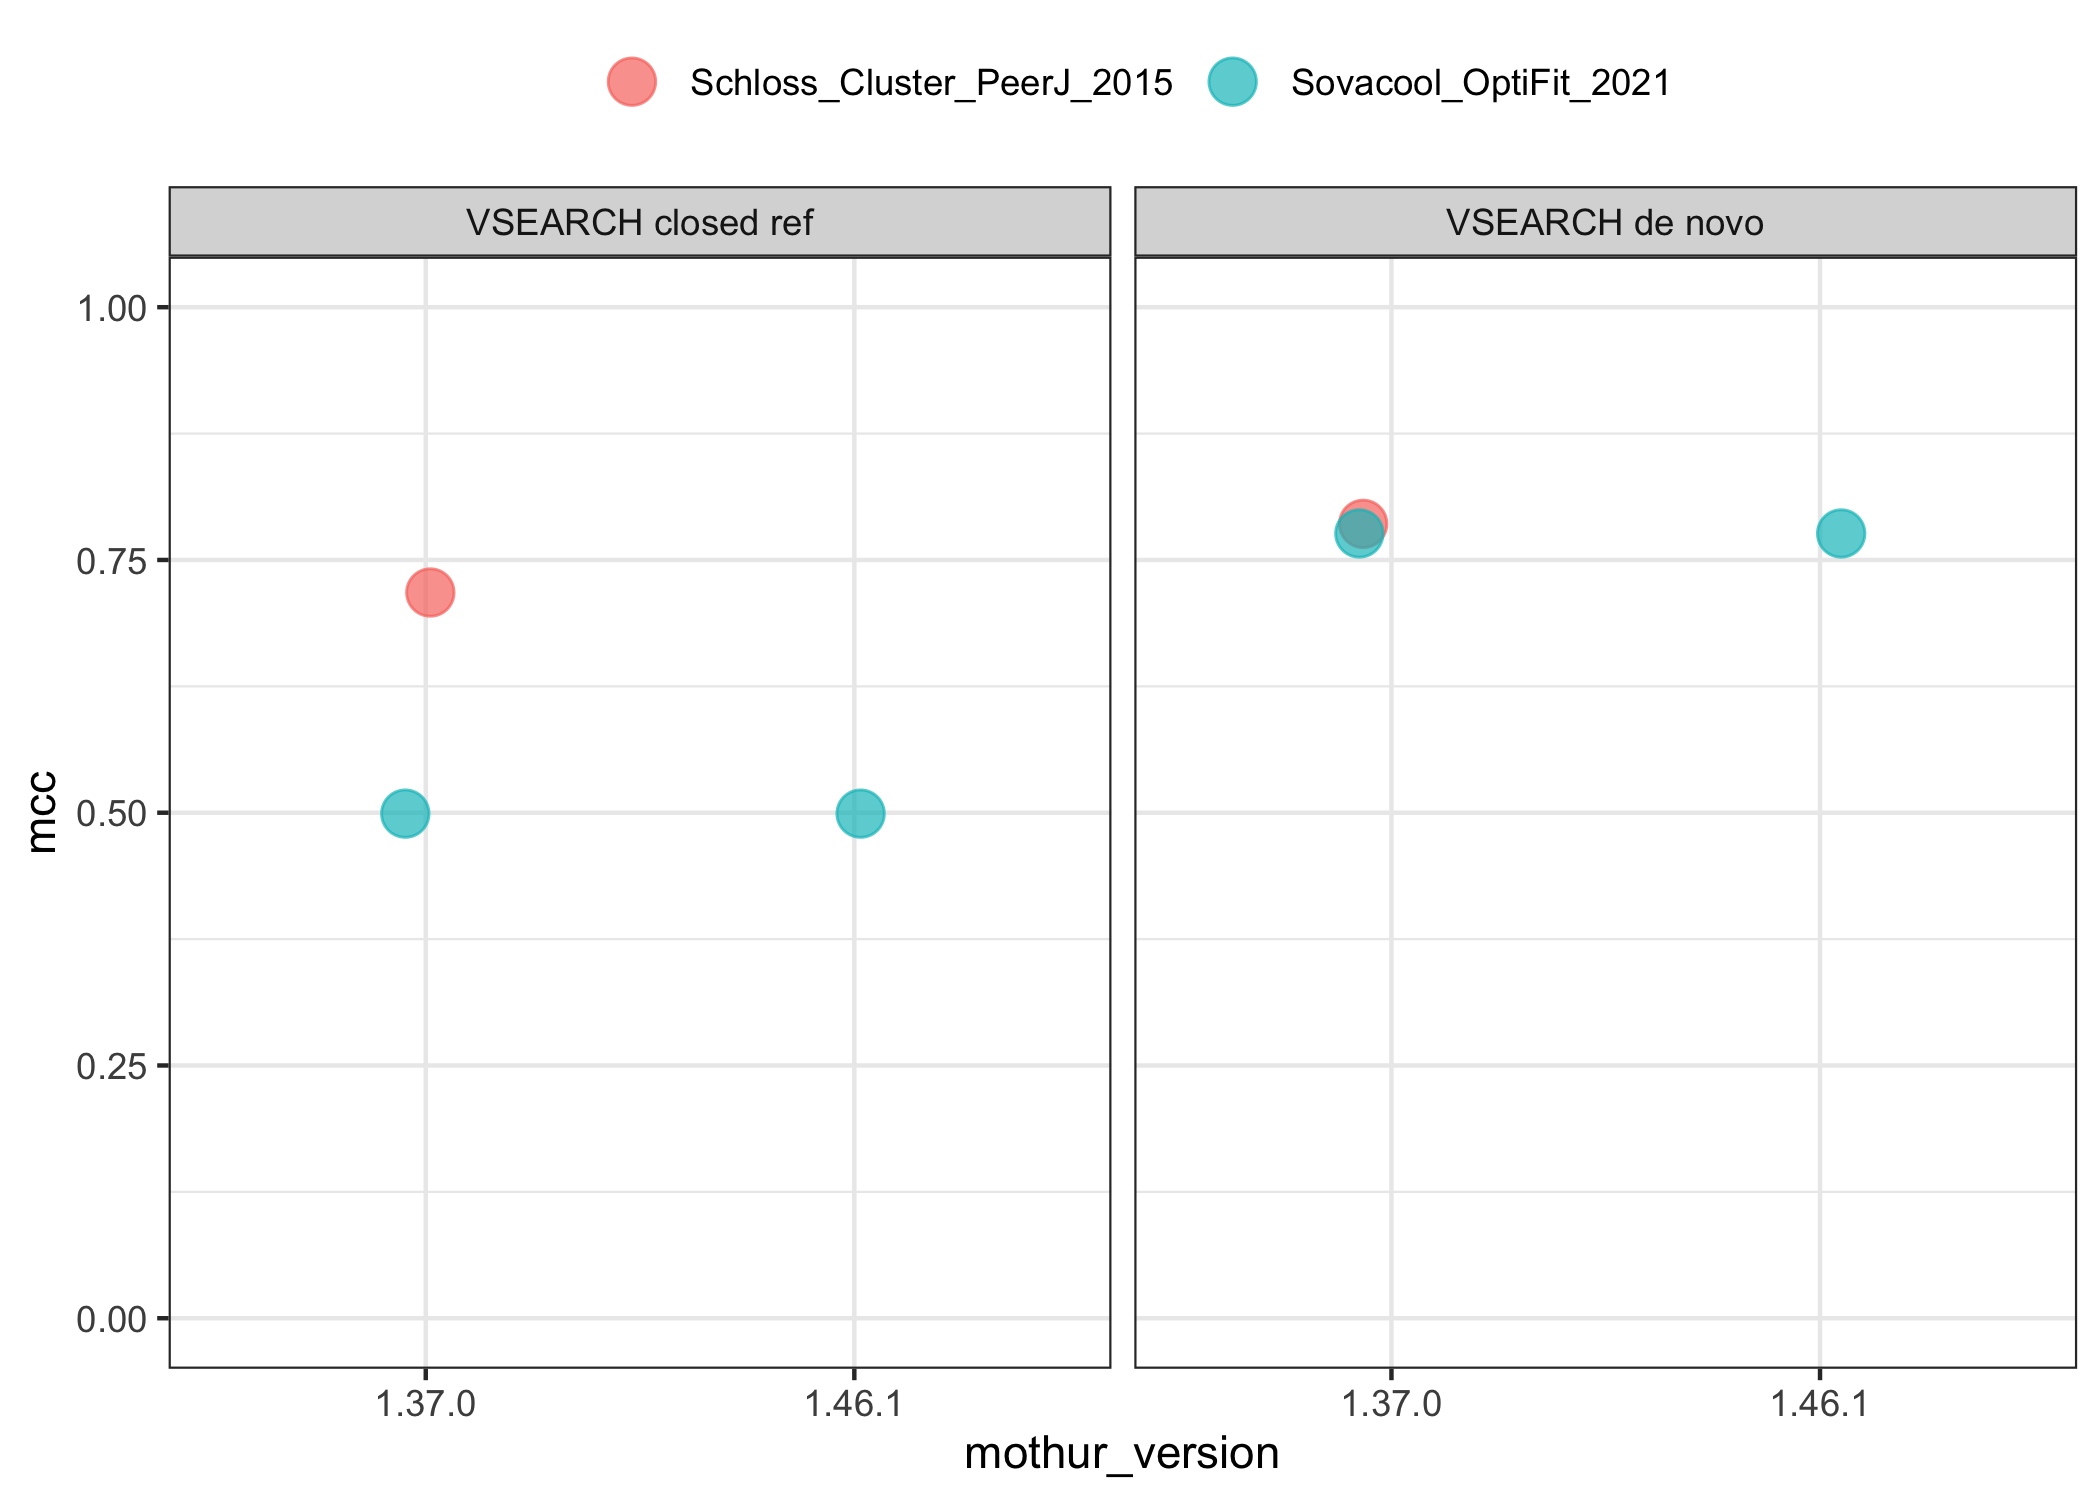
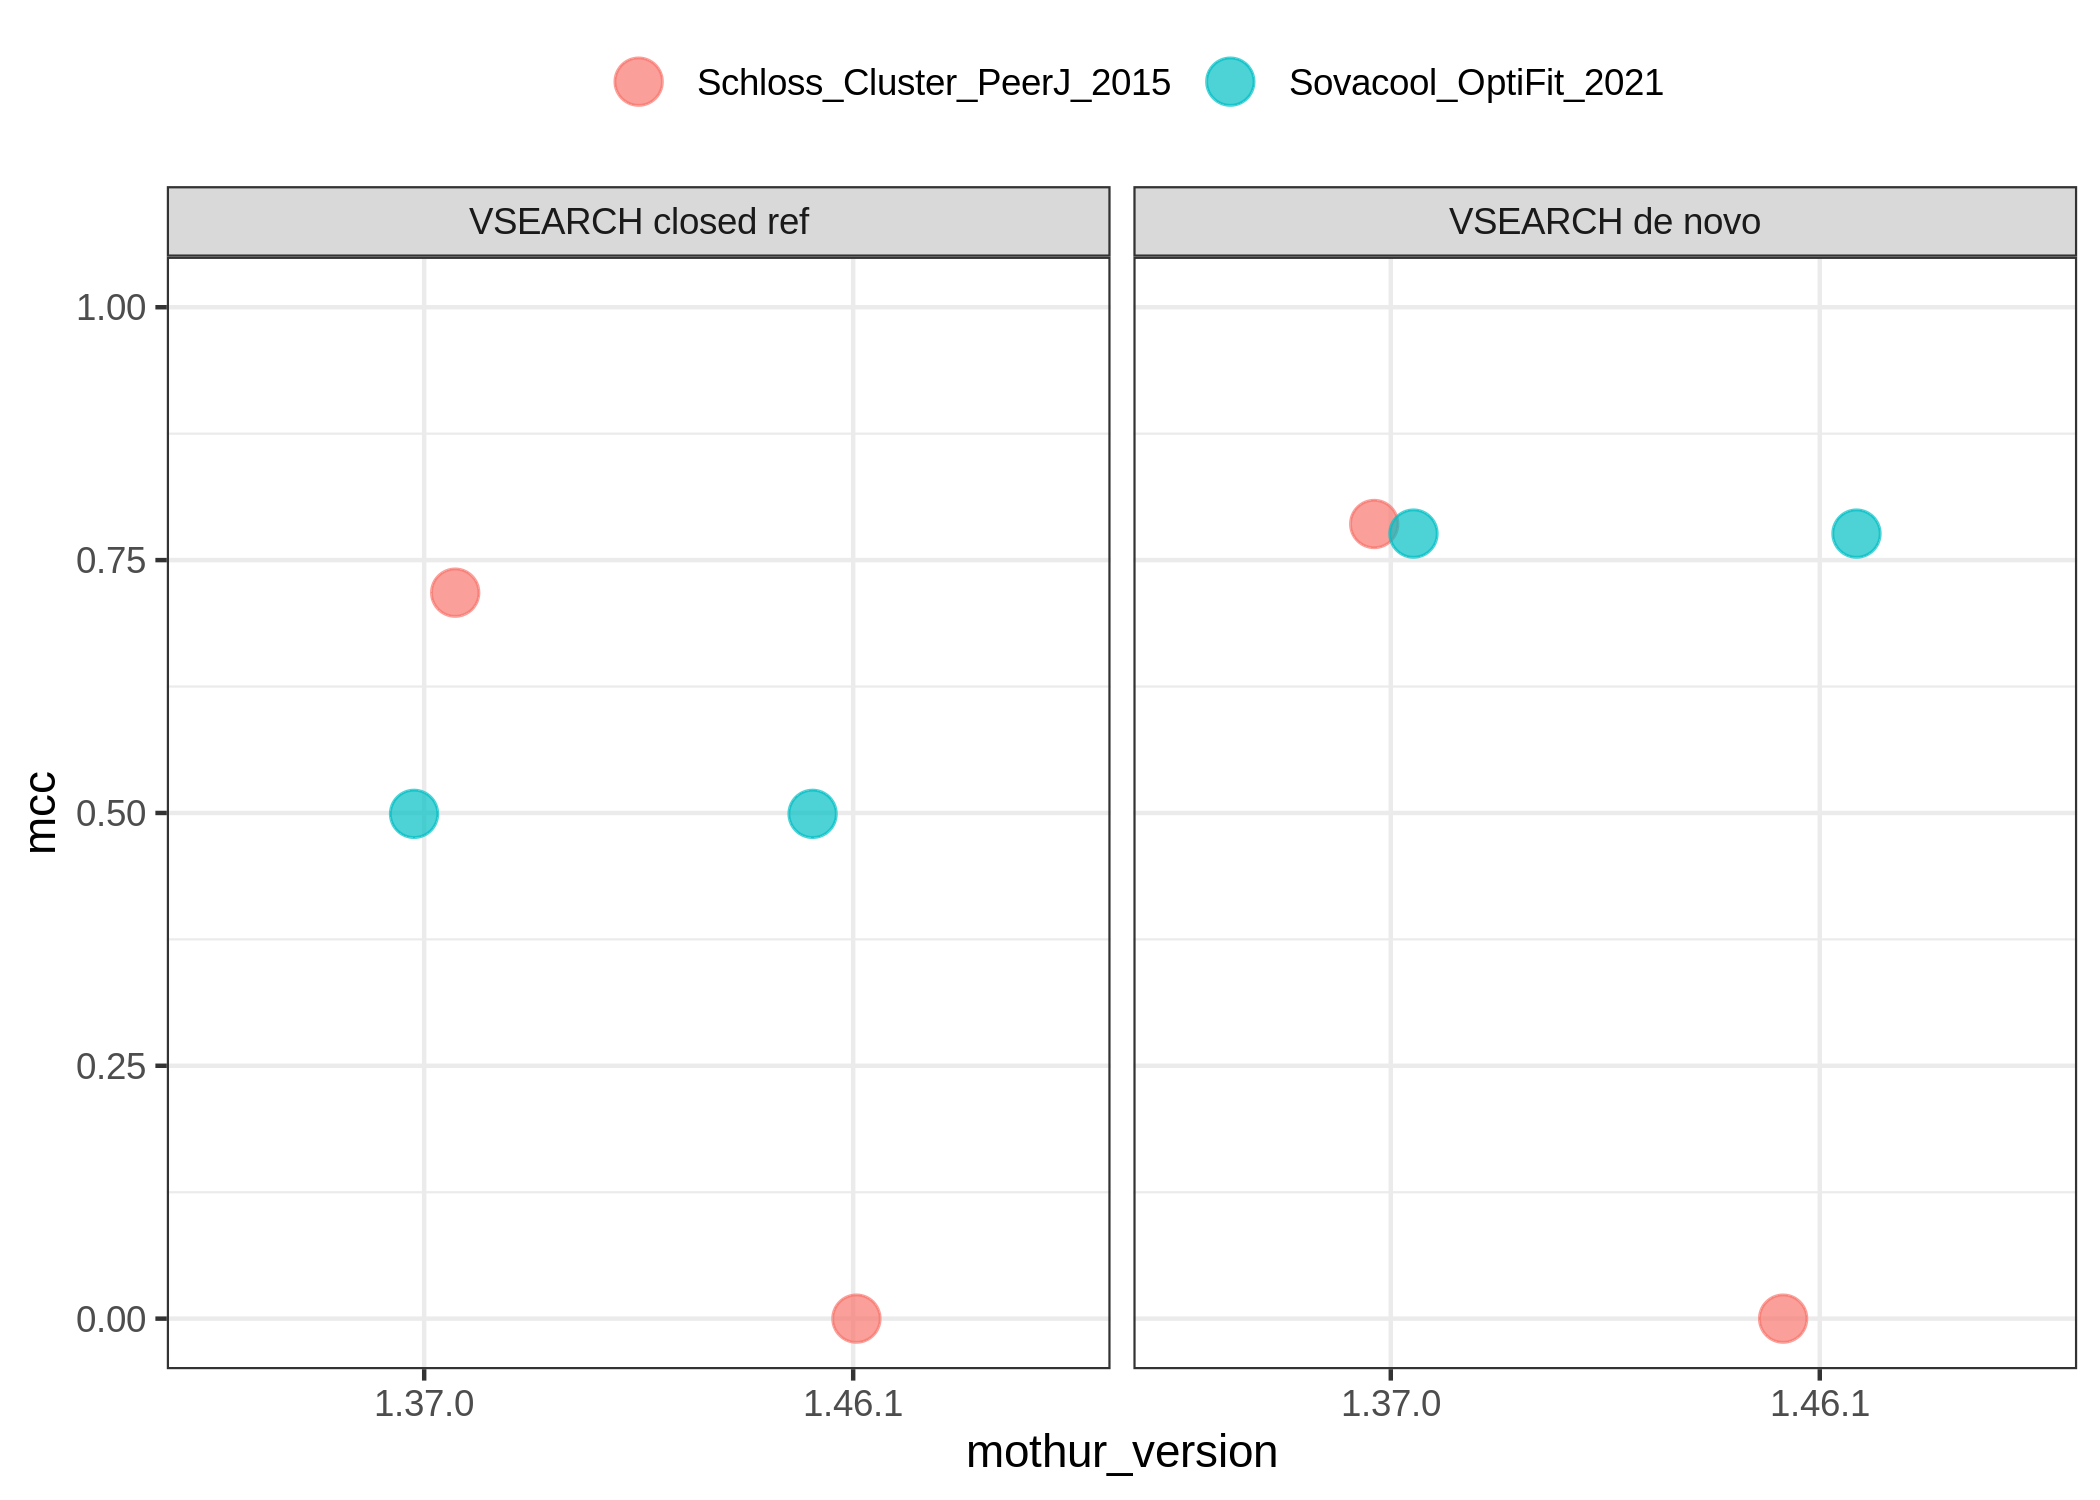
Run names with v1.46

diff --git a/README.md b/README.md
@@ -18,19 +18,19 @@ dat <- read_tsv(here('results', 'sensspec_concat.tsv')) %>%
                             TRUE ~ 'unknown'))
 ```
 
-    ## New names:
-    ## * label...20 -> label...22
-
-    ## Rows: 6 Columns: 22
-
-    ## ── Column specification ────────────────────────────────────────────────────────
-    ## Delimiter: "\t"
-    ## chr  (7): label...1, mothur_version, dataset, filetype, cluster_method, labe...
-    ## dbl (15): cutoff, tp, tn, fp, fn, sensitivity, specificity, ppv, npv, fdr, a...
-
     ## 
-    ## ℹ Use `spec()` to retrieve the full column specification for this data.
-    ## ℹ Specify the column types or set `show_col_types = FALSE` to quiet this message.
+    ## ── Column specification ────────────────────────────────────────────────────────
+    ## cols(
+    ##   .default = col_double(),
+    ##   label...1 = col_character(),
+    ##   mothur_version = col_character(),
+    ##   dataset = col_character(),
+    ##   filetype = col_character(),
+    ##   cluster_method = col_character(),
+    ##   label...20 = col_character(),
+    ##   label...19 = col_character()
+    ## )
+    ## ℹ Use `spec()` for the full column specifications.
 
 ``` r
 dat %>% 
@@ -38,14 +38,16 @@ dat %>%
   knitr::kable()
 ```
 
-| dataset      | cluster_method | mothur_version | filetype    |    mcc | num_otus |
-|:-------------|:---------------|:---------------|:------------|-------:|---------:|
-| miseq_1.0_01 | vdgc           | 1.37.0         | names       | 0.7857 |     2114 |
-| miseq_1.0_01 | cvsearch       | 1.37.0         | names       | 0.7178 |      862 |
-| mouse        | vdgc           | 1.37.0         | names       | 0.7762 |     2113 |
-| mouse        | cvsearch       | 1.37.0         | names       | 0.4991 |      870 |
-| mouse        | vdgc           | 1.46.1         | count_table | 0.7762 |     2113 |
-| mouse        | cvsearch       | 1.46.1         | count_table | 0.4991 |      870 |
+| dataset        | cluster\_method | mothur\_version | filetype     |    mcc | num\_otus |
+| :------------- | :-------------- | :-------------- | :----------- | -----: | --------: |
+| miseq\_1.0\_01 | vdgc            | 1.46.1          | names        | 0.0000 |      2114 |
+| miseq\_1.0\_01 | cvsearch        | 1.46.1          | names        | 0.0000 |       862 |
+| miseq\_1.0\_01 | vdgc            | 1.37.0          | names        | 0.7857 |      2114 |
+| miseq\_1.0\_01 | cvsearch        | 1.37.0          | names        | 0.7178 |       862 |
+| mouse          | vdgc            | 1.37.0          | names        | 0.7762 |      2113 |
+| mouse          | cvsearch        | 1.37.0          | names        | 0.4991 |       870 |
+| mouse          | vdgc            | 1.46.1          | count\_table | 0.7762 |      2113 |
+| mouse          | cvsearch        | 1.46.1          | count\_table | 0.4991 |       870 |
 
 ``` r
 dat %>% ggplot(aes(x=mothur_version, y=mcc, color=cluster_method, shape=dataset)) +
